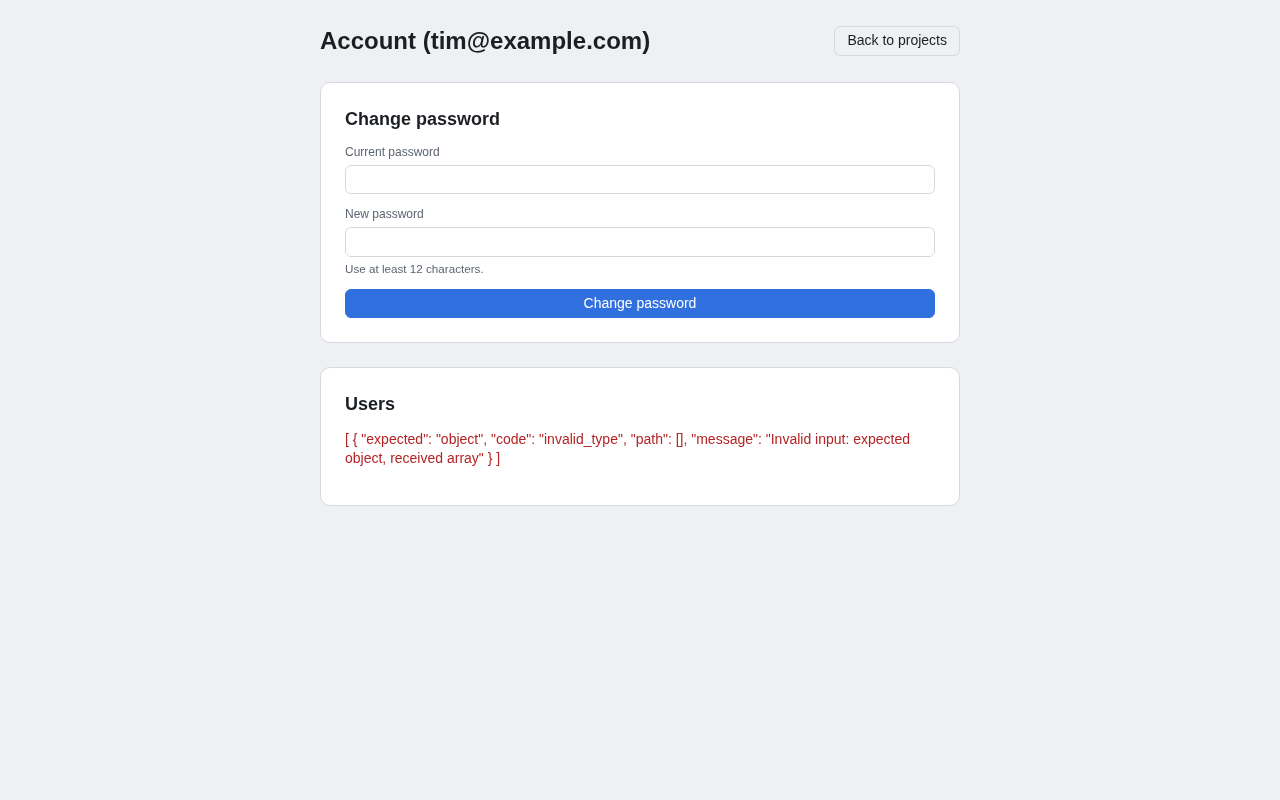
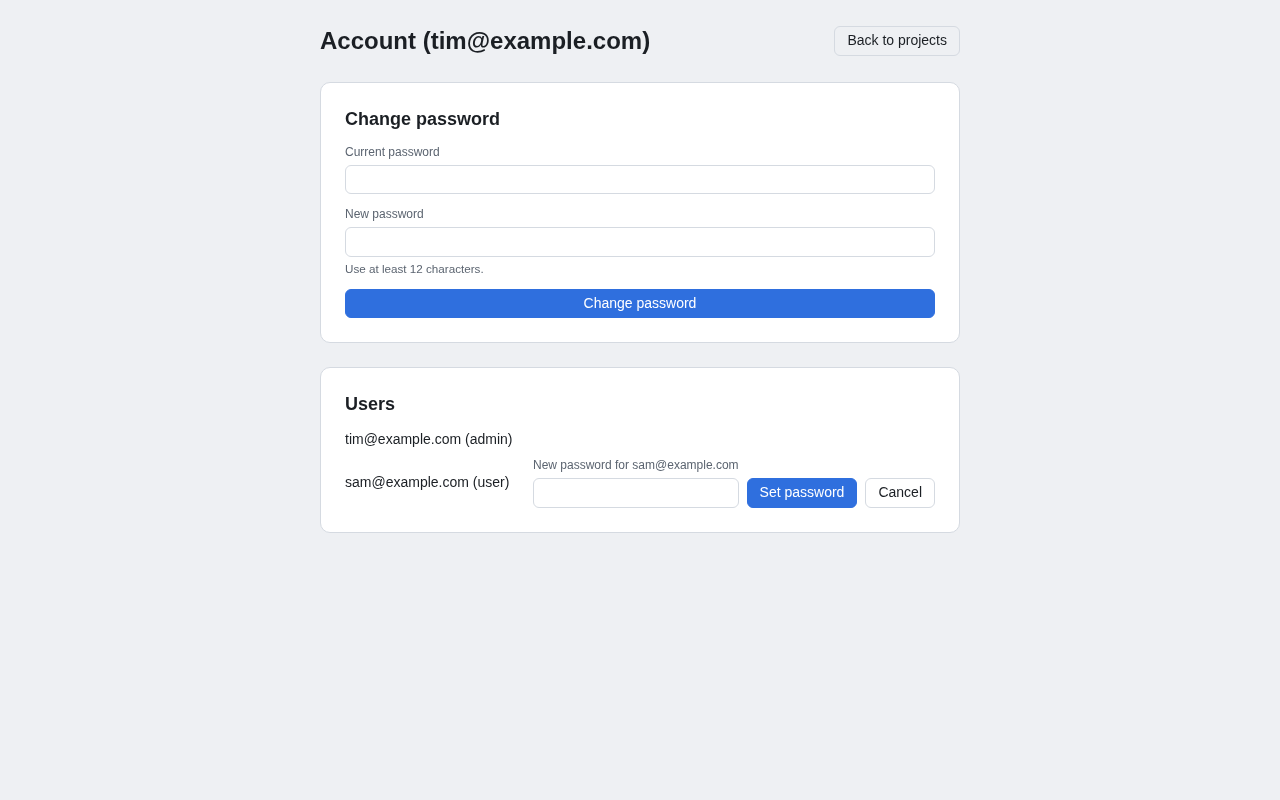
UI-1: address review (Field props order, Section hidden, TechLayer token, account screenshots)

Changed region(s): [[0.25, 0.5312, 0.7188, 0.625], [0.5625, 0.5938, 0.7188, 0.6562]]

diff --git a/apps/web/src/ui/lintRule.test.ts b/apps/web/src/ui/lintRule.test.ts
@@ -13,21 +13,25 @@ const lint = async (dir: string) => {
   return r!.messages.filter((m) => m.ruleId === 'no-restricted-syntax');
 };
 
-describe('UI-1 AC4: lint forbids style= on DOM elements in migrated directories', () => {
-  it.each(['ui', 'auth', 'projects', 'products'])('rejects style in %s/', async (dir) => {
-    const m = await lint(dir);
-    expect(m).toHaveLength(1);
-    expect(m[0]!.message).toMatch(/style/i);
-  });
-
-  it('leaves directories that are not migrated yet alone', async () => {
-    expect(await lint('layout')).toEqual([]);
-  });
-
-  it('allows style on a component (only DOM elements are restricted)', async () => {
-    const [r] = await eslint.lintText(`export const A = () => <Thing style={{ a: 1 }} />;\n`, {
-      filePath: file('ui', 'Y.tsx'),
+describe(
+  'UI-1 AC4: lint forbids style= on DOM elements in migrated directories',
+  { timeout: 30_000 },
+  () => {
+    it.each(['ui', 'auth', 'projects', 'products'])('rejects style in %s/', async (dir) => {
+      const m = await lint(dir);
+      expect(m).toHaveLength(1);
+      expect(m[0]!.message).toMatch(/style/i);
     });
-    expect(r!.messages.filter((m) => m.ruleId === 'no-restricted-syntax')).toEqual([]);
-  });
-});
+
+    it('leaves directories that are not migrated yet alone', async () => {
+      expect(await lint('layout')).toEqual([]);
+    });
+
+    it('allows style on a component (only DOM elements are restricted)', async () => {
+      const [r] = await eslint.lintText(`export const A = () => <Thing style={{ a: 1 }} />;\n`, {
+        filePath: file('ui', 'Y.tsx'),
+      });
+      expect(r!.messages.filter((m) => m.ruleId === 'no-restricted-syntax')).toEqual([]);
+    });
+  },
+);

diff --git a/apps/web/src/ui/components.test.tsx b/apps/web/src/ui/components.test.tsx
@@ -56,6 +56,15 @@ describe('UI-1 AC2: base components expose an accessible role and name', () => {
     expect(onChange).toHaveBeenCalledWith('a');
   });
 
+  it('Field: caller props cannot override the wired id and aria-describedby', () => {
+    render(
+      <Field label="Width" error="Bad" value="" onChange={() => {}} id="x" aria-describedby="y" />,
+    );
+    const input = screen.getByRole('textbox', { name: 'Width' });
+    expect(input.id).not.toBe('x');
+    expect(input.getAttribute('aria-describedby')).toContain(screen.getByRole('alert').id);
+  });
+
   it('Section: heading, optional description, optionally collapsible', async () => {
     const { rerender } = render(
       <Section heading="Floor" description="Size of the room">
@@ -74,7 +83,7 @@ describe('UI-1 AC2: base components expose an accessible role and name', () => {
     expect(toggle.getAttribute('aria-expanded')).toBe('true');
     await userEvent.click(toggle);
     expect(toggle.getAttribute('aria-expanded')).toBe('false');
-    expect(screen.queryByText('body')).toBeNull();
+    expect(screen.getByText('body', { selector: 'p' }).parentElement!.hidden).toBe(true);
   });
 
   it('Tabs: a tablist of tabs, the selected one flagged, onChange on click', async () => {

diff --git a/apps/web/src/ui/Field.tsx b/apps/web/src/ui/Field.tsx
@@ -12,6 +12,7 @@ export function Field({
   error,
   onChange,
   className,
+  type = 'text',
   'aria-describedby': describedBy,
   ...input
 }: Omit<InputHTMLAttributes<HTMLInputElement>, 'onChange'> & {
@@ -35,13 +36,13 @@ export function Field({
       </label>
       <span className={styles.control}>
         <input
+          {...input}
           id={id}
-          type="text"
+          type={type}
           className={styles.input}
           aria-invalid={error ? 'true' : undefined}
           aria-describedby={described}
           onChange={(e) => onChange?.(e.target.value)}
-          {...input}
         />
         {unit && <span className={styles.unit}>{unit}</span>}
       </span>

diff --git a/apps/web/src/ui/Section.tsx b/apps/web/src/ui/Section.tsx
@@ -38,11 +38,10 @@ export function Section({
         )}
       </h2>
       {description && <p className={styles.description}>{description}</p>}
-      {shown && (
-        <div id={bodyId} className={styles.body}>
-          {children}
-        </div>
-      )}
+      {/* hidden, not unmounted: a closed section keeps its children's state and aria-controls target */}
+      <div id={bodyId} className={styles.body} hidden={!shown}>
+        {children}
+      </div>
     </section>
   );
 }

diff --git a/apps/web/src/simulation/TechLayer.tsx b/apps/web/src/simulation/TechLayer.tsx
@@ -3,11 +3,12 @@ import { useFrame } from '@react-three/fiber';
 import * as THREE from 'three';
 import { TextLabel } from '../layout/FloorScene';
 import type { RunSession } from './runSession';
+import { tokens } from '../ui/tokens';
 
 const BODY_HEIGHT = 1.7;
 const BODY_RADIUS = 0.3;
 const LABEL_HEIGHT = 1.1;
-const WALKING_COLOR = '#9333ea';
+const WALKING_COLOR = tokens.state.walking.strong;
 const STANDING_COLOR = '#475569';
 
 /**

diff --git a/apps/web/src/ui/Section.module.css b/apps/web/src/ui/Section.module.css
@@ -26,3 +26,6 @@
   display: grid;
   gap: var(--space-2);
 }
+.body[hidden] {
+  display: none;
+}
